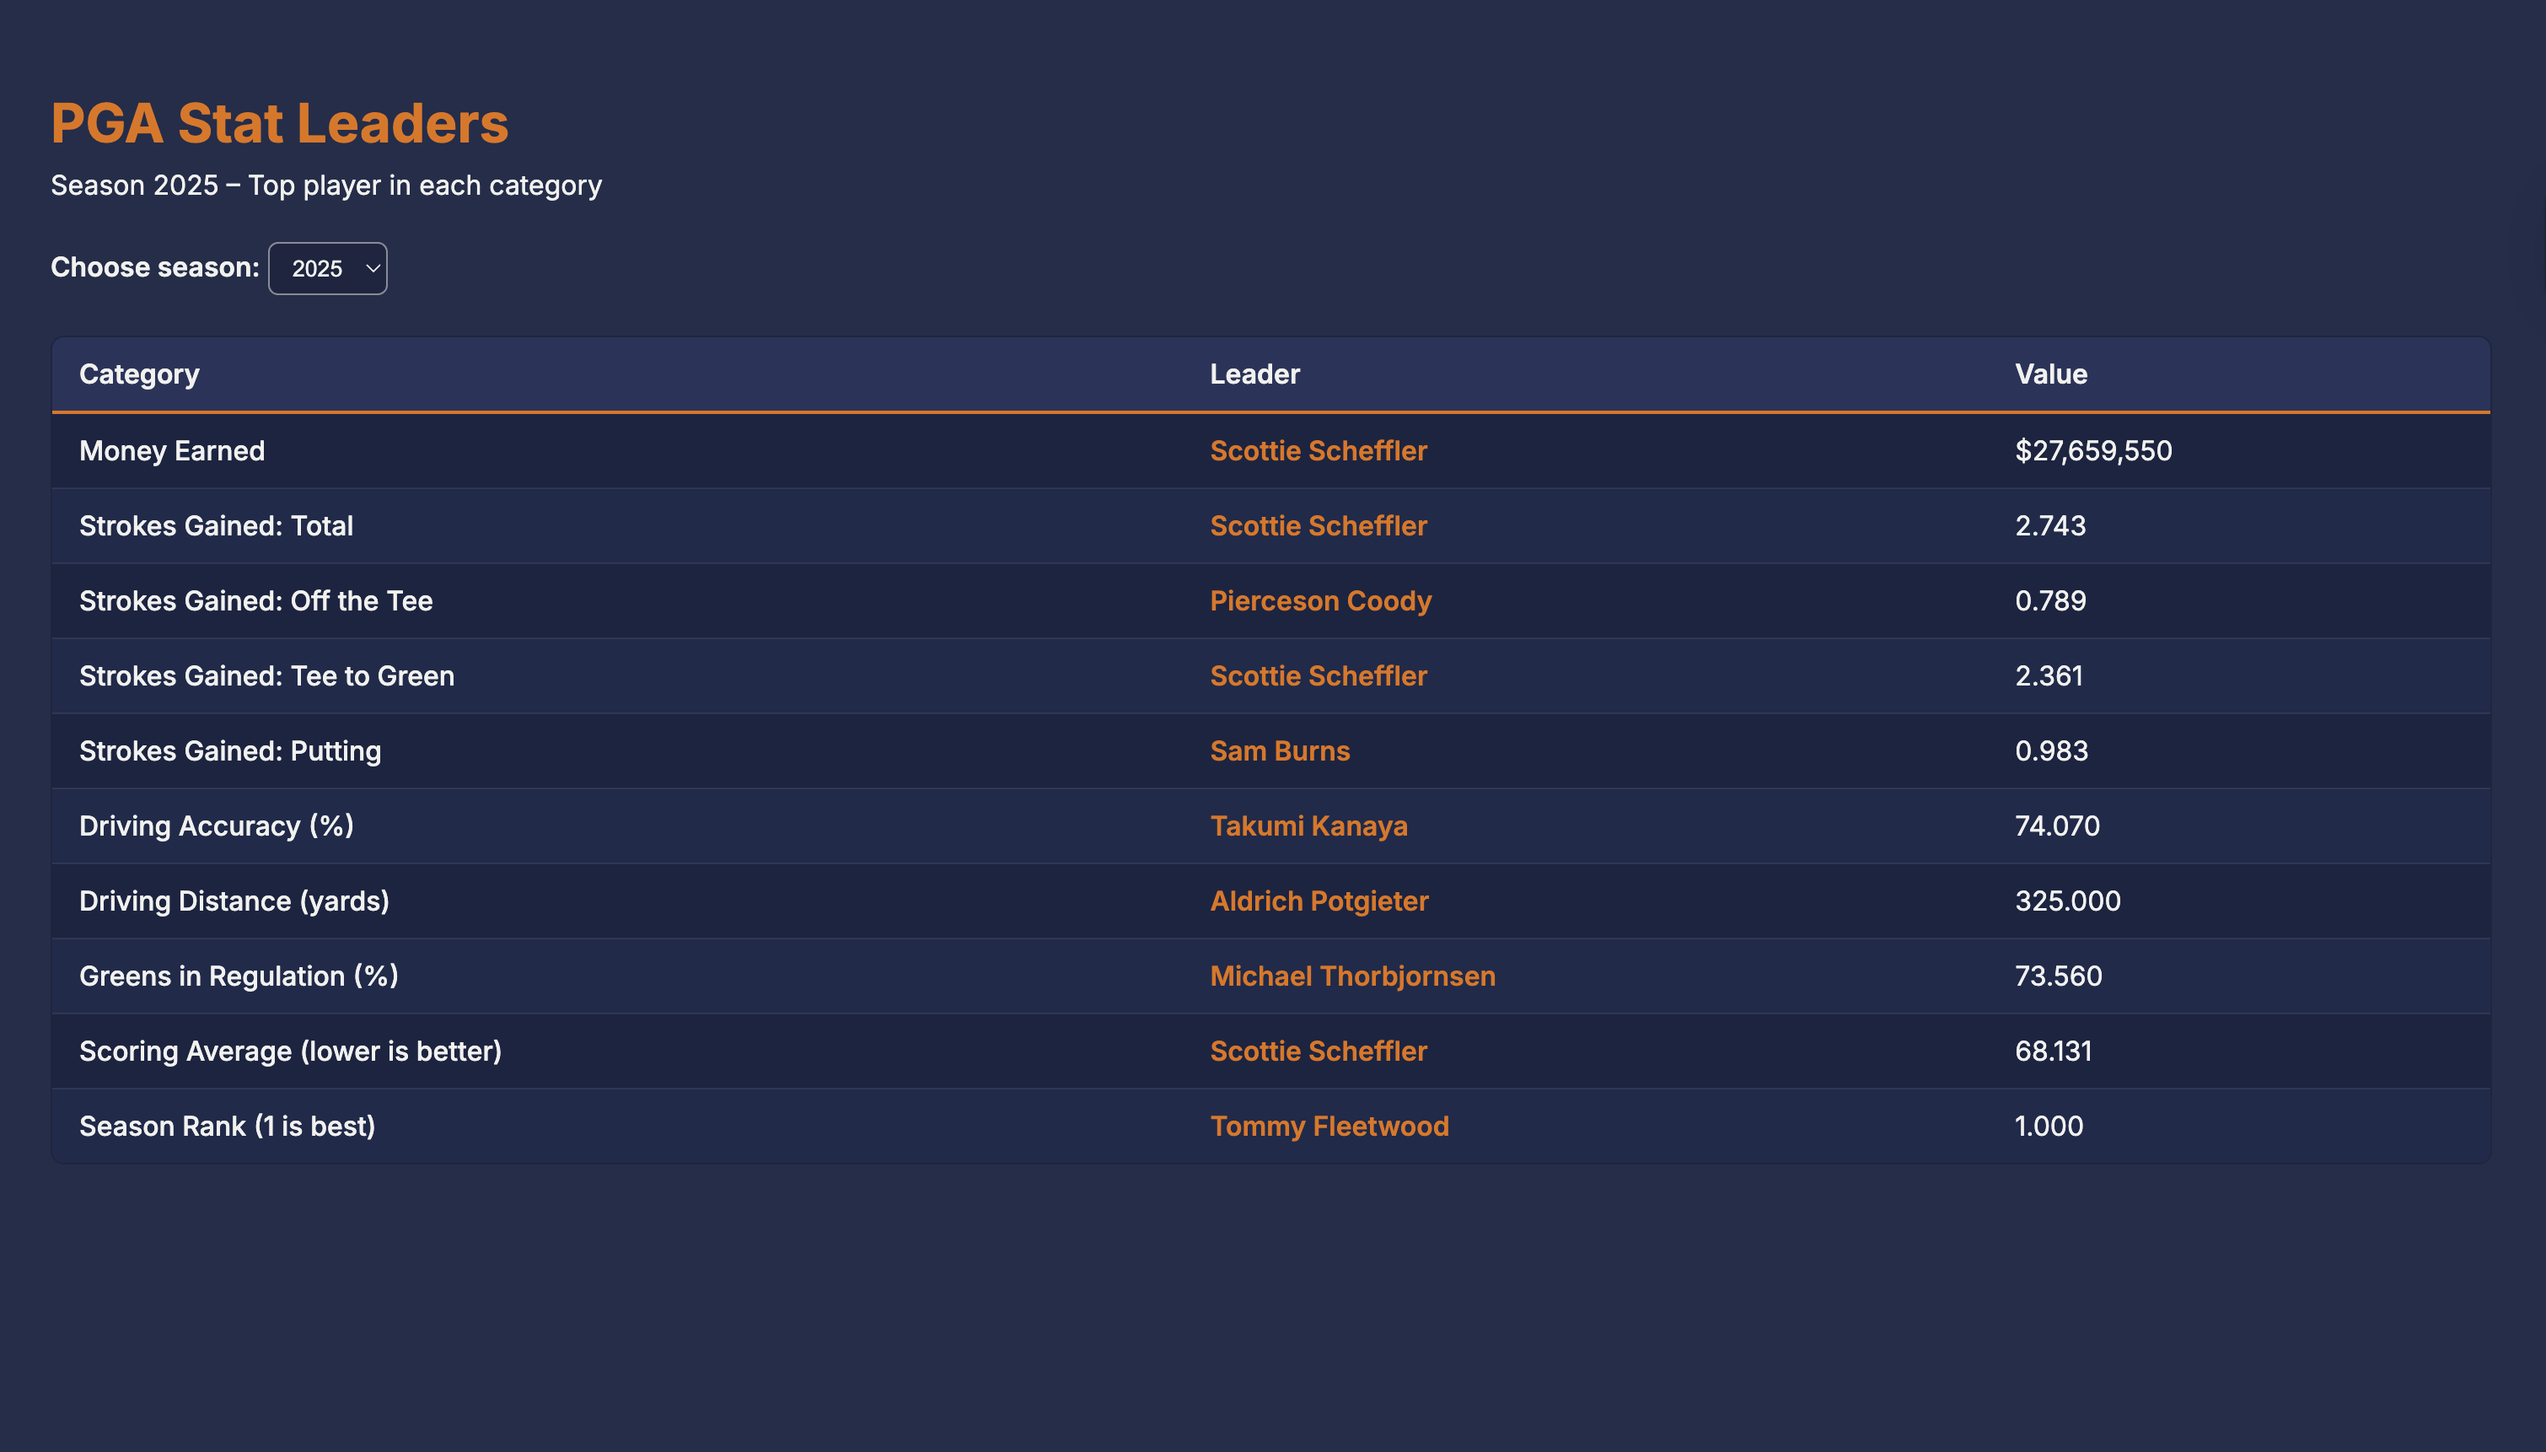
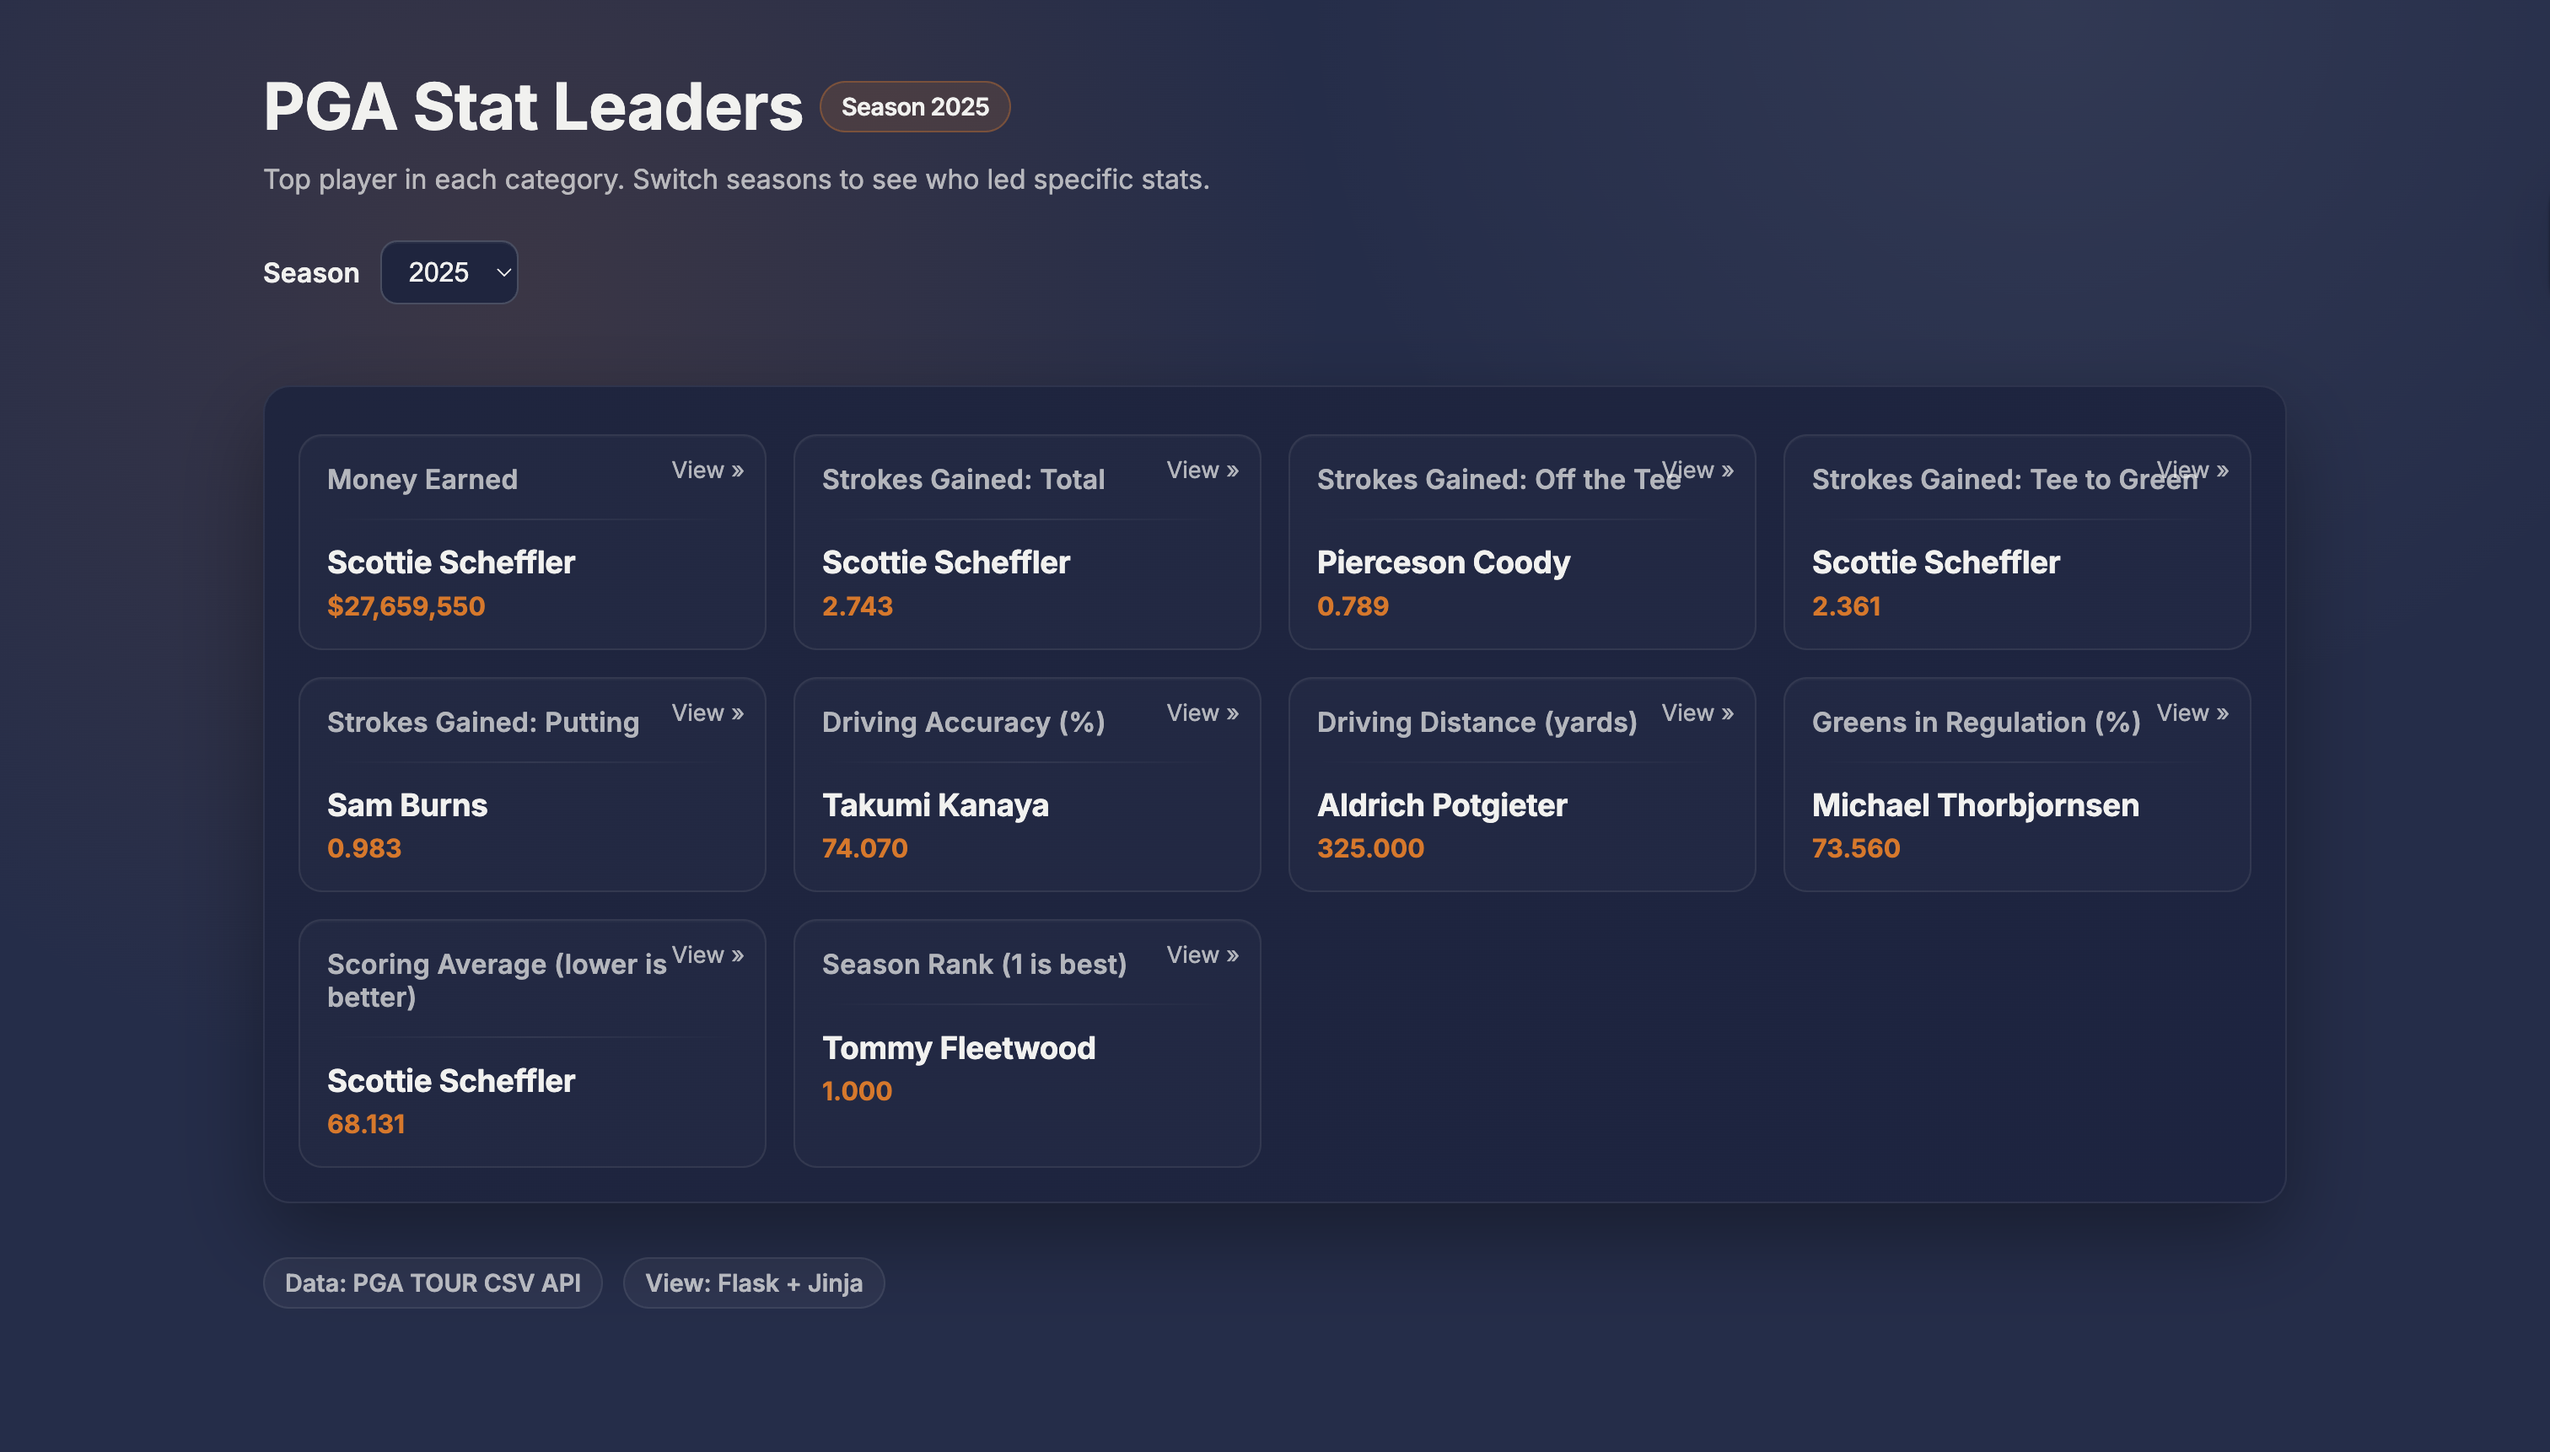
Adjustments after dashboard polishing

diff --git a/README.md b/README.md
@@ -118,8 +118,6 @@ docker run --rm -p "${PORT}:8000" pga-stats:latest
 
 echo "Health check..."
 curl "http://localhost:${PORT}/health"
-
-
 ```
 ## 4. Design Decisions
 ### Why this concept?
@@ -140,8 +138,7 @@ There is no handling of private or sensitive user data in this project. The data
   
 #### Secrets and environment variables
 I have included `.env.example` and `.gitignore` which will keep secrets out of the repo. However, the current project does not require things like API keys, so there are no secrets. 
-### Ops
-**INCLUDE TEXT HERE**
+
 
 ## 5. Results and Evaluation
 ### Testing and Validation
@@ -174,9 +171,13 @@ If the test was successful, this is the message you should receive in your termi
 ![App Test](assets/app_test.png)
 If there are errors, you will receive a message pinpointing what and where the error is.
 
-### Frontend Dashboard 
+### Primary Dashboard  
 ![Dashboard](assets/dashboard.png)
 After running the `run.sh` pipeline and clicking on the local host port, this is what the dashboard should look like.
+
+### Secondary Dashboard
+![Second Dashboard](assets/second_dashboard.png)
+If you want to inspect the entire list of players, ranked from best to worst, on a given stat in a given year, click on the icon and this is an example of what will show up.
 
 ### Health Check
 After running the `run.sh` pipeline, open a new terminal, cd into `ds2022-pga-golf` and run the following code:
